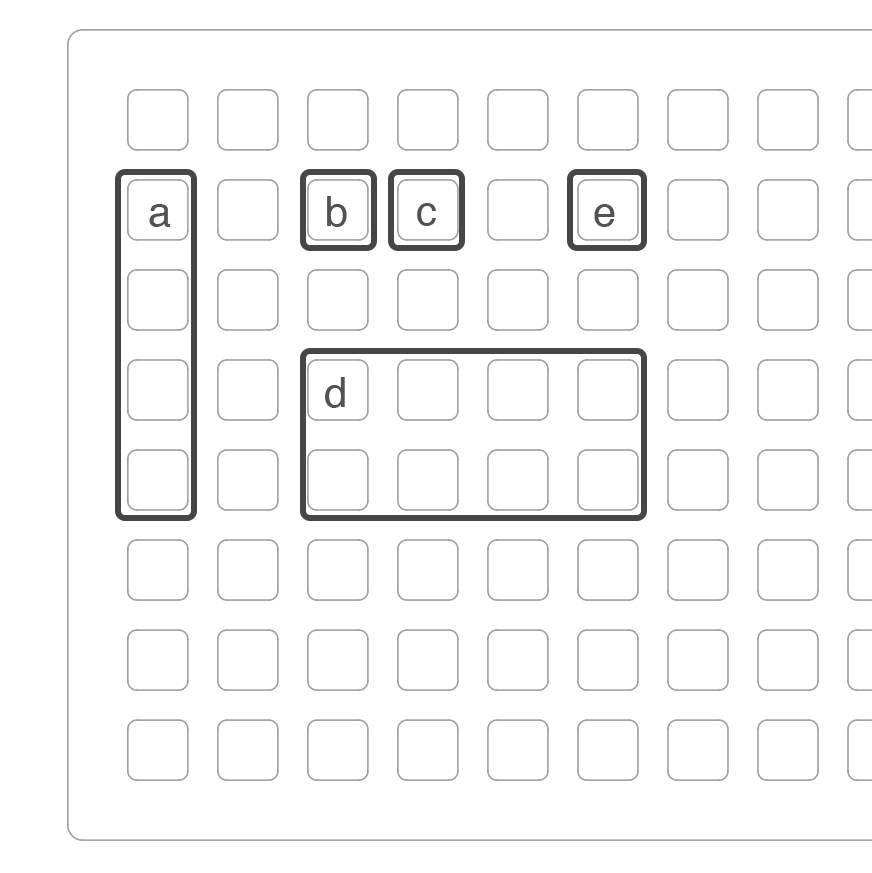
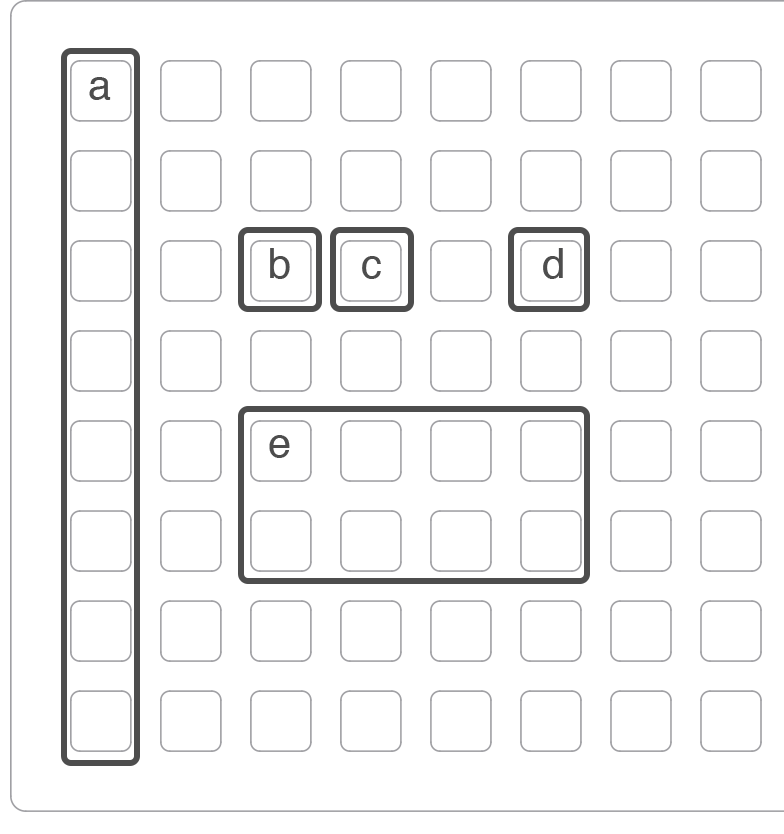
strides: updates docs

Changed region(s): [[0.0612, 0.0312, 1.0, 0.9664], [0.0, 0.0, 0.0306, 0.0312]]

diff --git a/docs/justmat/strides/strides.md b/docs/justmat/strides/strides.md
@@ -1,23 +1,48 @@
 
 
-### strides
+# strides v1.2
 
 ---
 
-strides is a 4 track finger drum pattern recorder for norns.
+strides is a collection of 16 pattern recorders.
+
+8 are norns focused, expressed as encoder recorders sending midi cc's.
+
+8 are grid focused, allowing for finger drum style recording and looping (with optional midi note out).
 
 ---
 
 ## norns
 
-- key1 = hold to access secondary encoder functions
-	* enc1 = main volume / distortion amount
-	* enc2 = delay time / delay level
-	* enc3 = delay feedback / delay send
+load samples, set midi notes and cc destinations in the PARAMETERS menu.
+
+
+there are two operating modes in strides, grid and encoder.
+to switch between grid and encoder modes, hold key1 and press key3.
+
+
+#### grid mode controls
+
+- enc1 - volume
+- enc2 - delay time
+- enc3 - delay feedback
+- key1 = hold to access secondary encoder/ key functions
+	* enc1 = distortion amount
+	* enc2 = delay level
+	* enc3 = ddelay send
+	* key3 = change mode
 - key2 = half time
 - key3 = double time
 
 nb: delay send works on all samples and tracks. if you wish to send individual samples to delay, you can do so via the PARAMETERS menu.
+
+#### encoder mode controls
+
+- key2 = arm record
+- key3 = start/ stop pattern
+- enc1 = select active pattern
+- enc2 = set cc value
+
 
 ---
 
@@ -25,19 +50,26 @@ nb: delay send works on all samples and tracks. if you wish to send individual s
 
 ![](strides-grid1.png)
 
-hold alt to access secondary grid functions. 
+hold alt to access secondary grid functions.
 
-- a - track selection / track stop
-- b - arm record / clear all patterns
-- c - start/stop selected track / stop all tracks
-- d - sample pads
-- e - alt
+- a - track selection
+- b - arm record
+- c - start/stop selected track
+- d - alt
+	* a - track stop
+	* b - clear all patterns
+	* c - stop all tracks
+- e - sample pads
 
-as well as secondary controls, holding alt will bring up several controls for pattern and sample playback speed manipulation.
+
+
+nb: as of v1.2 a midi panic/ kill button was added just above alt. hold alt to expose.
+
+as well as secondary controls, holding alt will bring up several controls for pattern and playback speed manipulation.
 
 ![](strides-grid2.png)
 
-- f - toggle pattern linearization 
+- f - toggle pattern linearization
 - g - double sample playback speed
 - h - half pattern speed
 - i - double pattern speed
